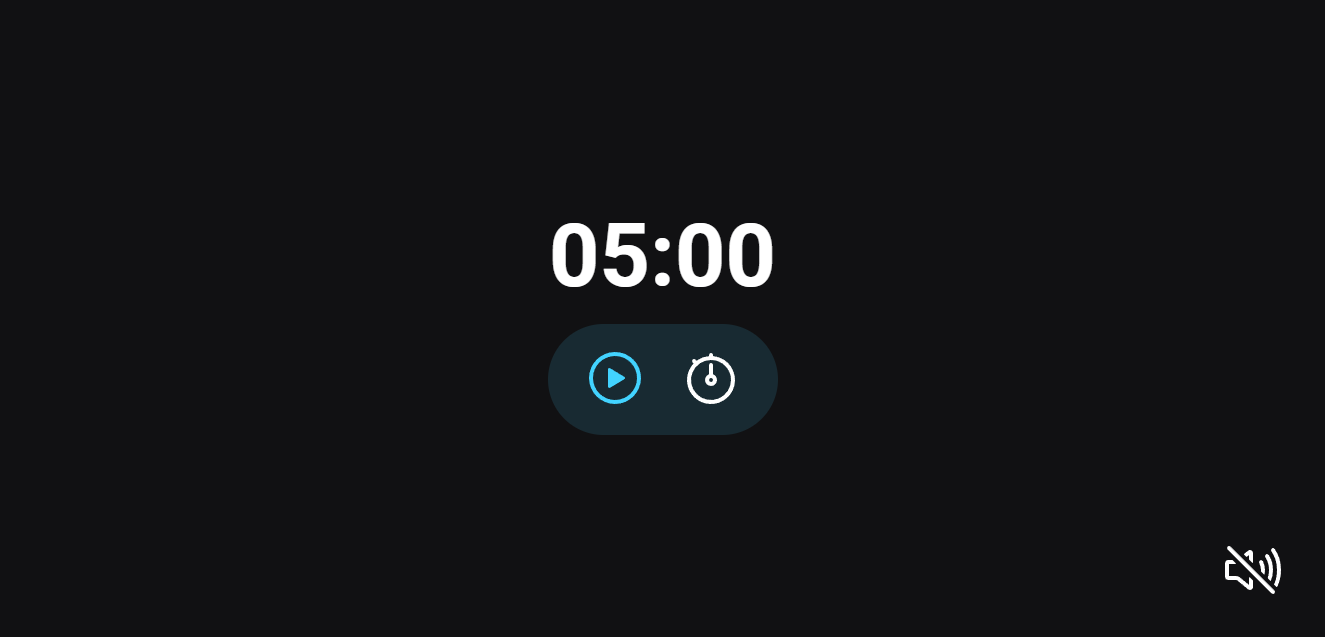
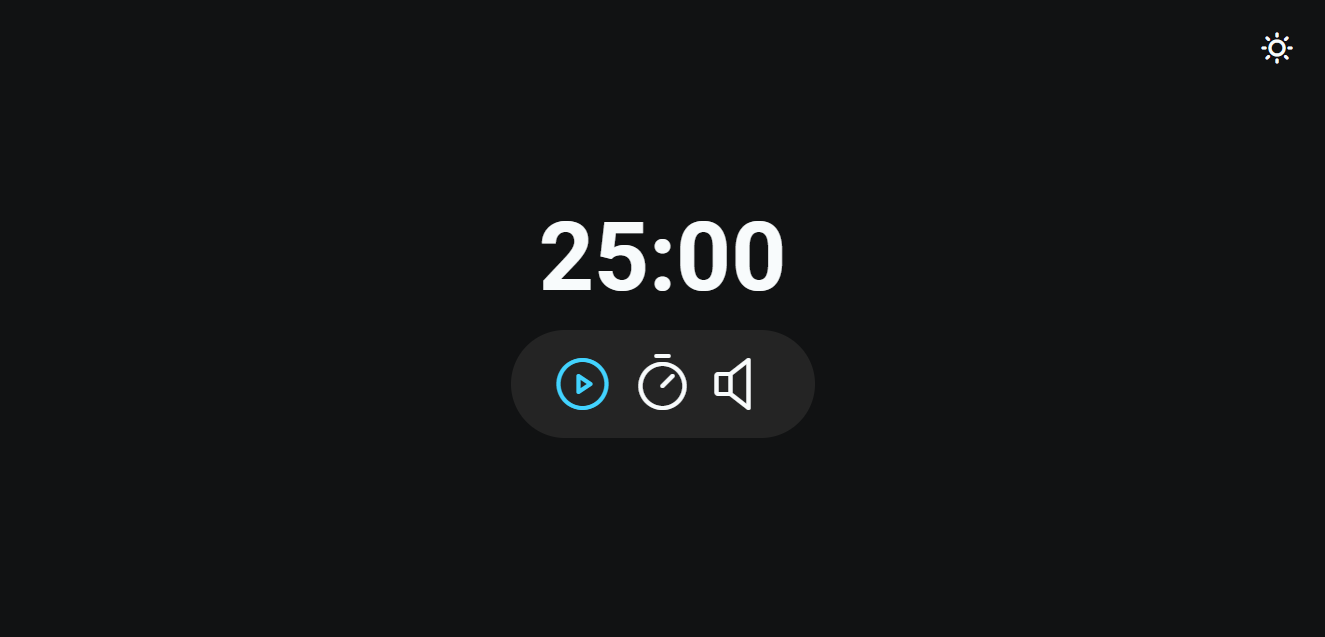
:recycle: refactor: Refatorado o evento de troca de temas

diff --git a/src/modules/events.js b/src/modules/events.js
@@ -1,5 +1,5 @@
 import * as actions from './actions.js'
-import * as state from './state.js'
+import state from "./state.js"
 import { appState, controls, minutesDisplay, theme } from './elements.js'
 import { time, timer } from '../../script.js'
 
@@ -14,13 +14,12 @@ export function registerControls() {
 
 
   theme.addEventListener('click', (event) => {
-    state.isDarkTheme = appState.classList.toggle('light')
-
-    const mode = darkMode ? 'light' : 'dark'
+    const mode = state.isDarkTheme ? 'light' : 'dark'
 
     event.currentTarget.querySelector('span').textContent = `${mode} mode ativado`
 
-    darkMode = !darkMode
+    state.isDarkTheme = !state.isDarkTheme
+    appState.classList.toggle('light')
   })
 
 

diff --git a/style.css b/style.css
@@ -58,6 +58,7 @@ main {
   display: flex;
   flex-direction: column;
   justify-items: center;
+  align-items: center;
   gap: 16rem;
 }
 
@@ -77,6 +78,8 @@ main {
 
   padding: 22rem 40rem;
   border-radius: 9999rem;
+
+  max-width: 304rem;
 }
 
 .controls #buttons {

diff --git a/src/modules/actions.js b/src/modules/actions.js
@@ -1,5 +1,5 @@
 import state from "./state.js"
-import { sounds, timer, time, darkMode } from "../../script.js"
+import { sounds, timer, time } from "../../script.js"
 import { appState, minutesDisplay } from "./elements.js"
 
 function toggleRunning() {

diff --git a/script.js b/script.js
@@ -8,8 +8,6 @@ import * as events from './src/modules/events.js'
 import Sounds from './src/factories/sounds.js'
 import Timer from './src/factories/timer.js'
 
-export let darkMode = true
-
 export const time = {
   minutes: 25,
   seconds: 0,
